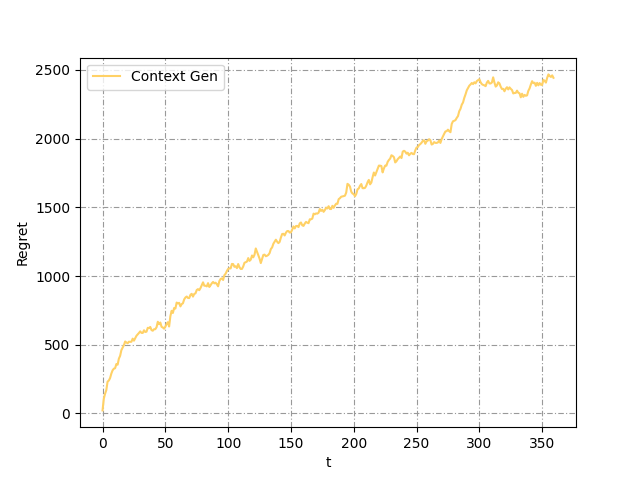
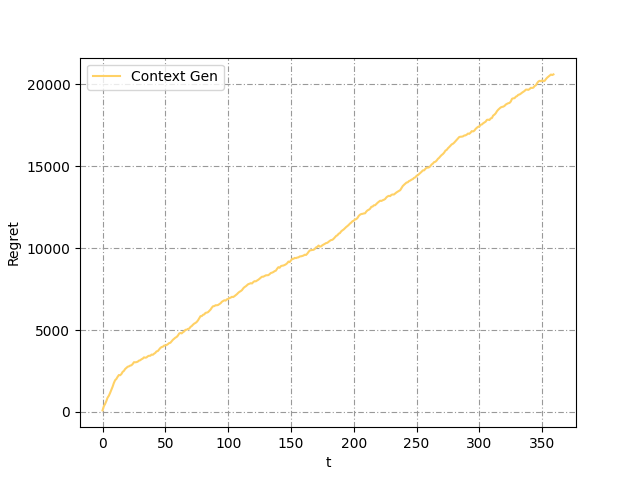
context generator last version

diff --git a/context2.py b/context2.py
@@ -1,3 +1,4 @@
+from numpy import split
 from learners import Learner, TS_Learner
 import logging
 import itertools
@@ -27,10 +28,13 @@ class ContextGenerator():
         self.classes = classes # [Y, I], [Y, D], [A, I], [A, D]
         self.features = features # [Y, A], [I, D]
         self.contexts = []
-        self.context_color_matrix = []  
+        self.split_color_matrices = []  
         self.current_id = 0
 
-        self.init_context()
+
+        ts_learner = TS_Learner(n_arms=self.n_arms, candidates=self.candidates)
+        init_context = Context(0, self.classes, ts_learner)
+        self.contexts.append(init_context)
 
     def init_context(self):
         self.current_id = 0
@@ -58,15 +62,18 @@ class ContextGenerator():
             if o[0] in c.classes:
                 c.learner.update(o[1], o[2])
 
-    def pull_arm(self, user_class):
-        context = self.find_context(user_class)
-        return context.learner.pull_arm()
+    def pull_arm(self):
+        # ad ogni round (giorno) vengono tirati gli arm di ogni context
+        # questi vengono salvati in pulled_arms nel seguente formato:
+        # [classi_del_context, pulled_arm], ...
+        # così che ad ogni nuova persona che arriva verrà selezionato
+        # l'arm che ha tra le sue classi quella del cliente 
+        pulled_arms = [] 
 
-    def find_context(self, user_class):
         for c in self.contexts:
-            if user_class in c.classes:
-                return c
-        logging.error("ContextGenerator.find_context() no context with class {user_class}")
+            pulled_arm, _ = c.learner.pull_arm()
+            pulled_arms.append([c.classes, pulled_arm])
+        return pulled_arms      
 
     def extract_obs(self, classes):
         # extract obs which belongs to the classes passed as argument
@@ -89,23 +96,23 @@ class ContextGenerator():
         mu_1 = learner_1.expected_value_lower_bound()
         mu_2 = learner_2.expected_value_lower_bound()
         mu_0 = context.learner.expected_value_lower_bound()
+        
+        logging.debug(f'Context.split_evaluation() -> evaluating split context id {context.id} | feature {feature}')
 
-        msg = f'Context.split_evaluation() -> id=c{context.id} p1 = {p_1}|p2 = {p_2}|mu0 = {mu_0}|mu1 = {mu_1}| mu2 = {mu_2}'
-        logging.debug(f'Context.split_evaluation() {msg}')
+        msg = f'Context.split_evaluation() -> id=c{context.id} p1 = {p_1:.2f}|p2 = {p_2:.2f}|mu1 = {mu_1:.2f}| mu2 = {mu_2:.2f}|mu0 = {mu_0:.2f}|'
+        logging.debug(f'{msg}')
 
-        return p_1 * mu_1 + p_2 * mu_2 - mu_0
+        return (p_1 * mu_1 + p_2 * mu_2) - mu_0
     
     def generate(self):
-        #for c in self.contexts:
-        #    mu_0 = c.learner.expected_value_lower_bound()
 
         for c in self.contexts:
             split_conditions = []
 
             for f in self.features: # [Y, A], [I, D]
                 if c.has_feature(f): 
-                    split_cond = self.evaluate_split(c, f)
-                    if split_cond > 0:
+                    split_cond = self.evaluate_split(c, f) 
+                    if split_cond >= 0:
                         split_conditions.append([f, split_cond]) # [[Y, A], 0.3345]
             
             if len(split_conditions) > 0:
@@ -115,7 +122,7 @@ class ContextGenerator():
                     if e[1] > best_split[1]:
                         best_split = e
                 best_feature = best_split[0]
-
+                
                 classes_1, classes_2 = self.separate_classes(c.classes, best_feature)
                 obs_1 = self.extract_obs(classes_1)
                 obs_2 = self.extract_obs(classes_2)
@@ -134,7 +141,6 @@ class ContextGenerator():
 
                 logging.debug(f'ContextGenerator.generate() c_{c.id} splitted in: c_{c1.id}({classes_1}),c_{c2.id}({classes_2})')                
             
-                        
     def separate_classes(self, classes, feature):
         classes1, classes2 = [], []
         for c in classes:
@@ -143,9 +149,9 @@ class ContextGenerator():
         return classes1, classes2
 
     def expected_value_arm(self, user_class, pulled_arm):
-
-        context = self.find_context(user_class)
-        return context.learner.expected_value(pulled_arm)
+        for c in self.contexts:
+            if user_class in c.classes:
+                return c.learner.expected_value(pulled_arm)
     
     def update_reward_per_experiments(self):
         for c in self.contexts:
@@ -156,9 +162,9 @@ class ContextGenerator():
         for c in self.contexts:
             reward += c.learner.collected_rewards
         return reward
-
+    
     # function to plot the contexts 
-    def add_context_color_matrix(self):
+    def add_split_matrix(self):
         color = 0
         class_colors = {}
         for c in self.contexts:
@@ -168,10 +174,9 @@ class ContextGenerator():
                     class_colors[f[0]+f[1]] = {}
                     class_colors[f[0]+f[1]] = color
             color += 1
-        class_colors['obs'] = len(self.obs)
-        self.context_color_matrix.append(class_colors)
+        self.split_color_matrices.append(class_colors)
     
-    def get_context_color_matrices(self):
-        return self.context_color_matrix
+    def get_split_matrices(self):
+        return self.split_color_matrices
                 
     

diff --git a/experiments/experiment_4.py b/experiments/experiment_4.py
@@ -9,6 +9,8 @@ import logging
 
 from context2 import ContextGenerator
 
+
+
 class Experiment4():
 
     def __init__(self):
@@ -17,18 +19,19 @@ class Experiment4():
         self.features = self.cm.features
         self.classes = self.cm.get_classes()
         self.class_distribution = self.cm.class_distribution
-        
-        self.bid = 0.42
+     
         self.prices = self.cm.prices
-
-        self.p = self.cm.aggr_conv_rates()
-
         self.n_arms = len(self.prices)
-        self.opt = np.max(np.multiply(self.p, self.prices)) 
 
-        self.T = 360 # number of days
-        self.n_experiments = 1
-
+        current_opt_0 = np.max(np.multiply(self.cm.conv_rates[0], self.prices))
+        current_opt_1 = np.max(np.multiply(self.cm.conv_rates[1], self.prices))
+        current_opt_2 = np.max(np.multiply(self.cm.conv_rates[2], self.prices))
+        current_opt_3 = np.max(np.multiply(self.cm.conv_rates[3], self.prices))
+        print(f'current_opt_0 {current_opt_0}')
+        print(f'current_opt_1 {current_opt_1}')
+        print(f'current_opt_2 {current_opt_2}')
+        print(f'current_opt_3 {current_opt_3}')
+        
         self.reward_log = []
         self.reward_per_experiments = []
         self.regret_per_experiments = []
@@ -36,7 +39,8 @@ class Experiment4():
         self.colors = self.cm.colors
         self.splits = None
 
-        np.random.seed(123)
+        self.T = 360 # number of days
+        self.n_experiments = 1
 
     def run(self):
         pg = PersonGenerator()
@@ -50,29 +54,39 @@ class Experiment4():
             for t in range(0,self.T): # 1 round is one day
                 logging.debug(f'Experiment4.run() -> step {t} / {self.T}')
 
-                if t%14 == 0 and t > 0:
+                if t%7 == 0 and t > 0:
                     context_gen.init_context()
                     context_gen.generate() 
 
-                num_people = pg.generate_people_num(n=100)
-                #people = pg.generate_people()
+                num_people = pg.generate_people_num(n=500)
+               
                 daily_reward = 0
                 daily_regret = 0
 
-                for _ in range(num_people): # p is a class e.g. ["Y", "I"], usually called user_class
+                pulled_arms = context_gen.pull_arm()
+
+                for _ in range(num_people):     
                     
+                    # we generate a new customer where
+                    # p_class is a number in [0,1,2,3] i.e. the class
+                    # p_labels is the correspondent class e.g. ['Y', 'I']
                     p_class, p_labels = pg.generate_person()
-                
-                    pulled_arm, _ = context_gen.pull_arm(p_labels)
+                    
+                    pulled_arm = None
+                    for pulled in pulled_arms:
+                        if p_labels in pulled[0]:
+                            pulled_arm = pulled[1]
+
                     reward = env.round(pulled_arm, p_class)
 
                     current_opt = np.max(np.multiply(self.cm.conv_rates[p_class], self.prices))
+                    
 
                     new_obs = [p_labels, pulled_arm, reward]
                     context_gen.update(new_obs)
                     
                     daily_reward += reward
-                    daily_regret += current_opt - reward
+                    daily_regret += (current_opt - reward)
 
                 rewards = np.append(rewards, daily_reward)
                 regrets = np.append(regrets, daily_regret)
@@ -80,7 +94,7 @@ class Experiment4():
             self.reward_per_experiments.append(rewards)
             self.regret_per_experiments.append(regrets)
 
-            self.splits = context_gen.get_context_color_matrices()
+            self.splits = context_gen.get_split_matrices()
 
     def _plot_splits(self):
         if len(self.splits) > 0:
@@ -100,13 +114,12 @@ class Experiment4():
                     axes[i].set_xlabel('Feature 1')
                     if i == 0:
                         axes[i].set_ylabel('Feature 2')
-                    axes[i].set_title(f"{s['obs']} obs")
-                fig.suptitle('Context splits after')
+                fig.suptitle('Context splits')
                 plt.savefig(f'img/experiments/experiment_4_splits.png')
 
     
     def plot(self):
-        self._plot_splits()
+        #self._plot_splits()
 
         plt.figure(0)
         plt.xlabel("t")

diff --git a/test.py b/test.py
@@ -55,9 +55,24 @@ for e in a:
         best_feature = e
 print(best_feature)
 
-'''
 
 a = ['aaa']
 for e in a:
     print(e)
     a.append("bbb")
+
+def extract_obs(obs, classes):
+    # extract obs which belongs to the classes passed as argument
+    return [o for o in obs if o[0] in classes]
+
+obs = [[["A", "D"], 0, 1],
+[["Y", "I"], 0, 0],
+[["Y", "D"], 0, 3],
+[["A", "D"], 0, 2]]
+
+classes = [["A", "D"], ["Y", "D"]]
+
+a = extract_obs(obs, classes)
+print(a)
+'''
+
